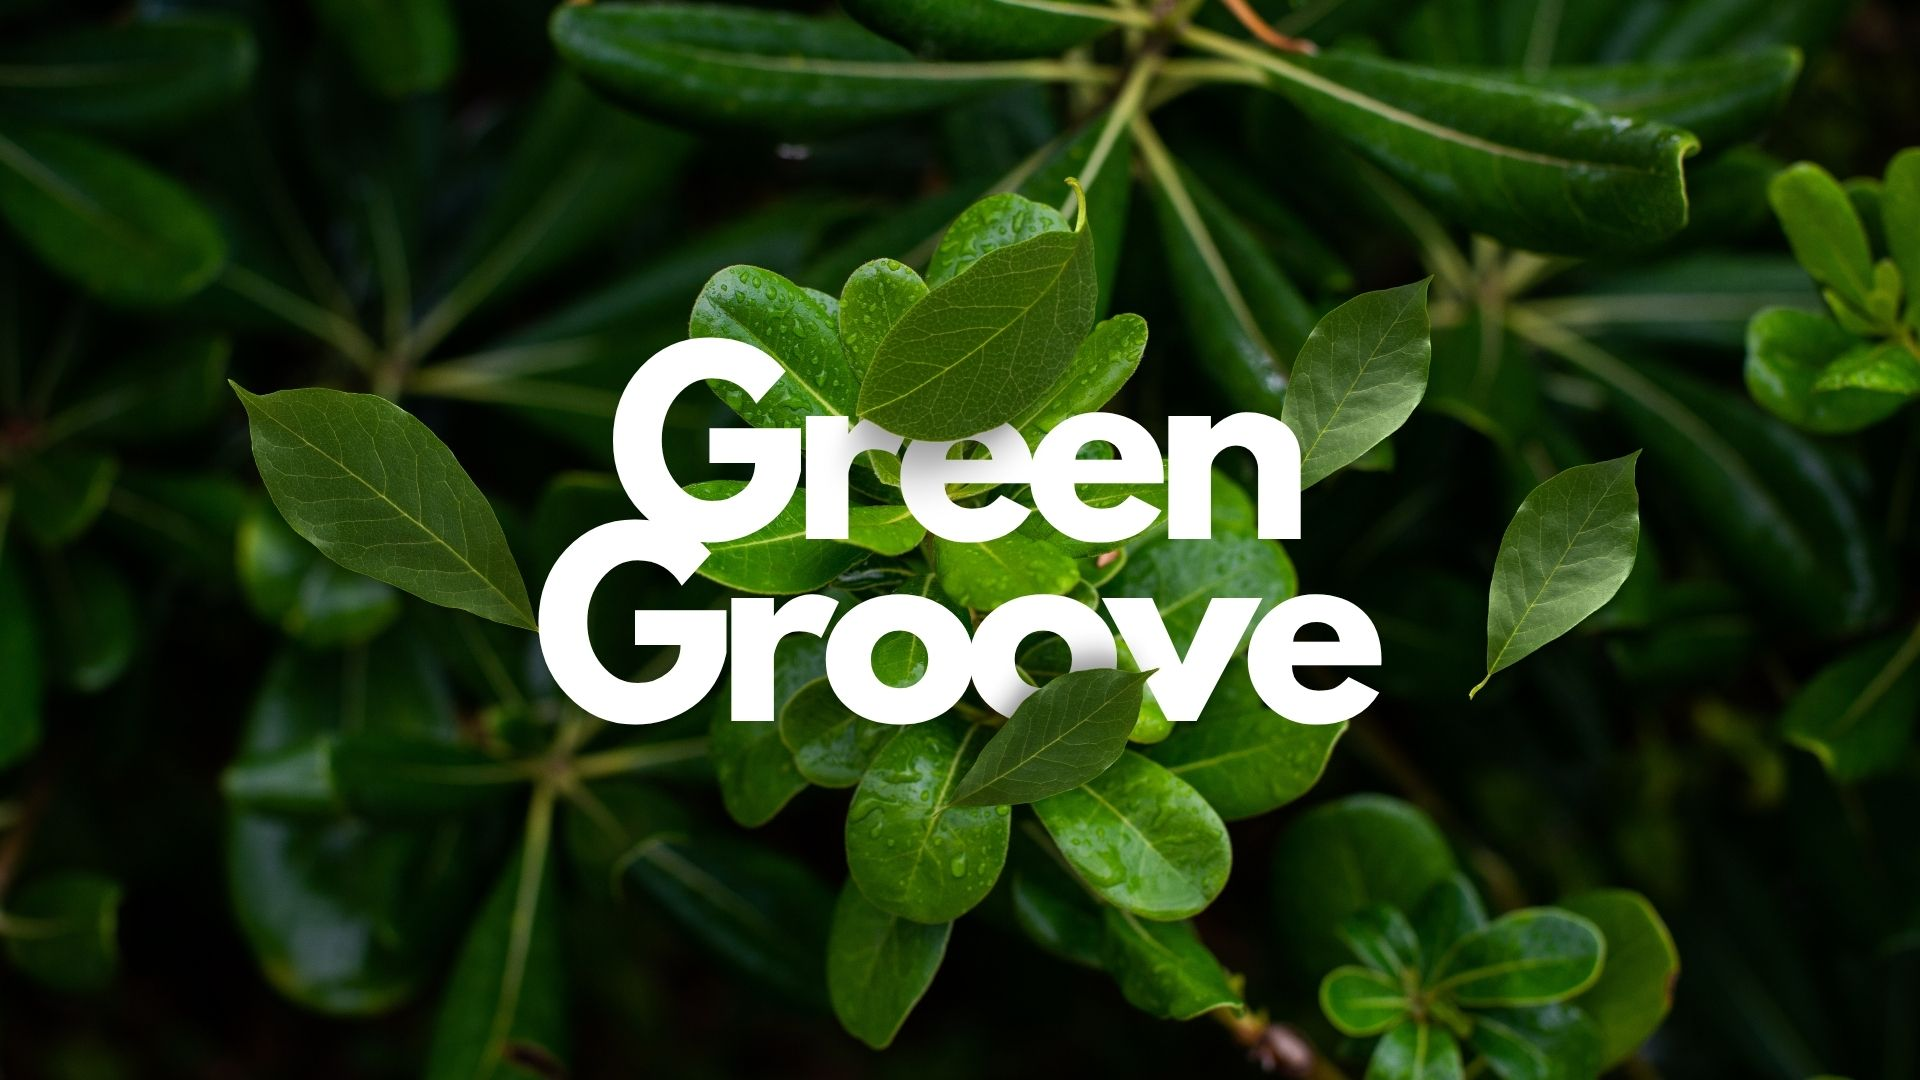
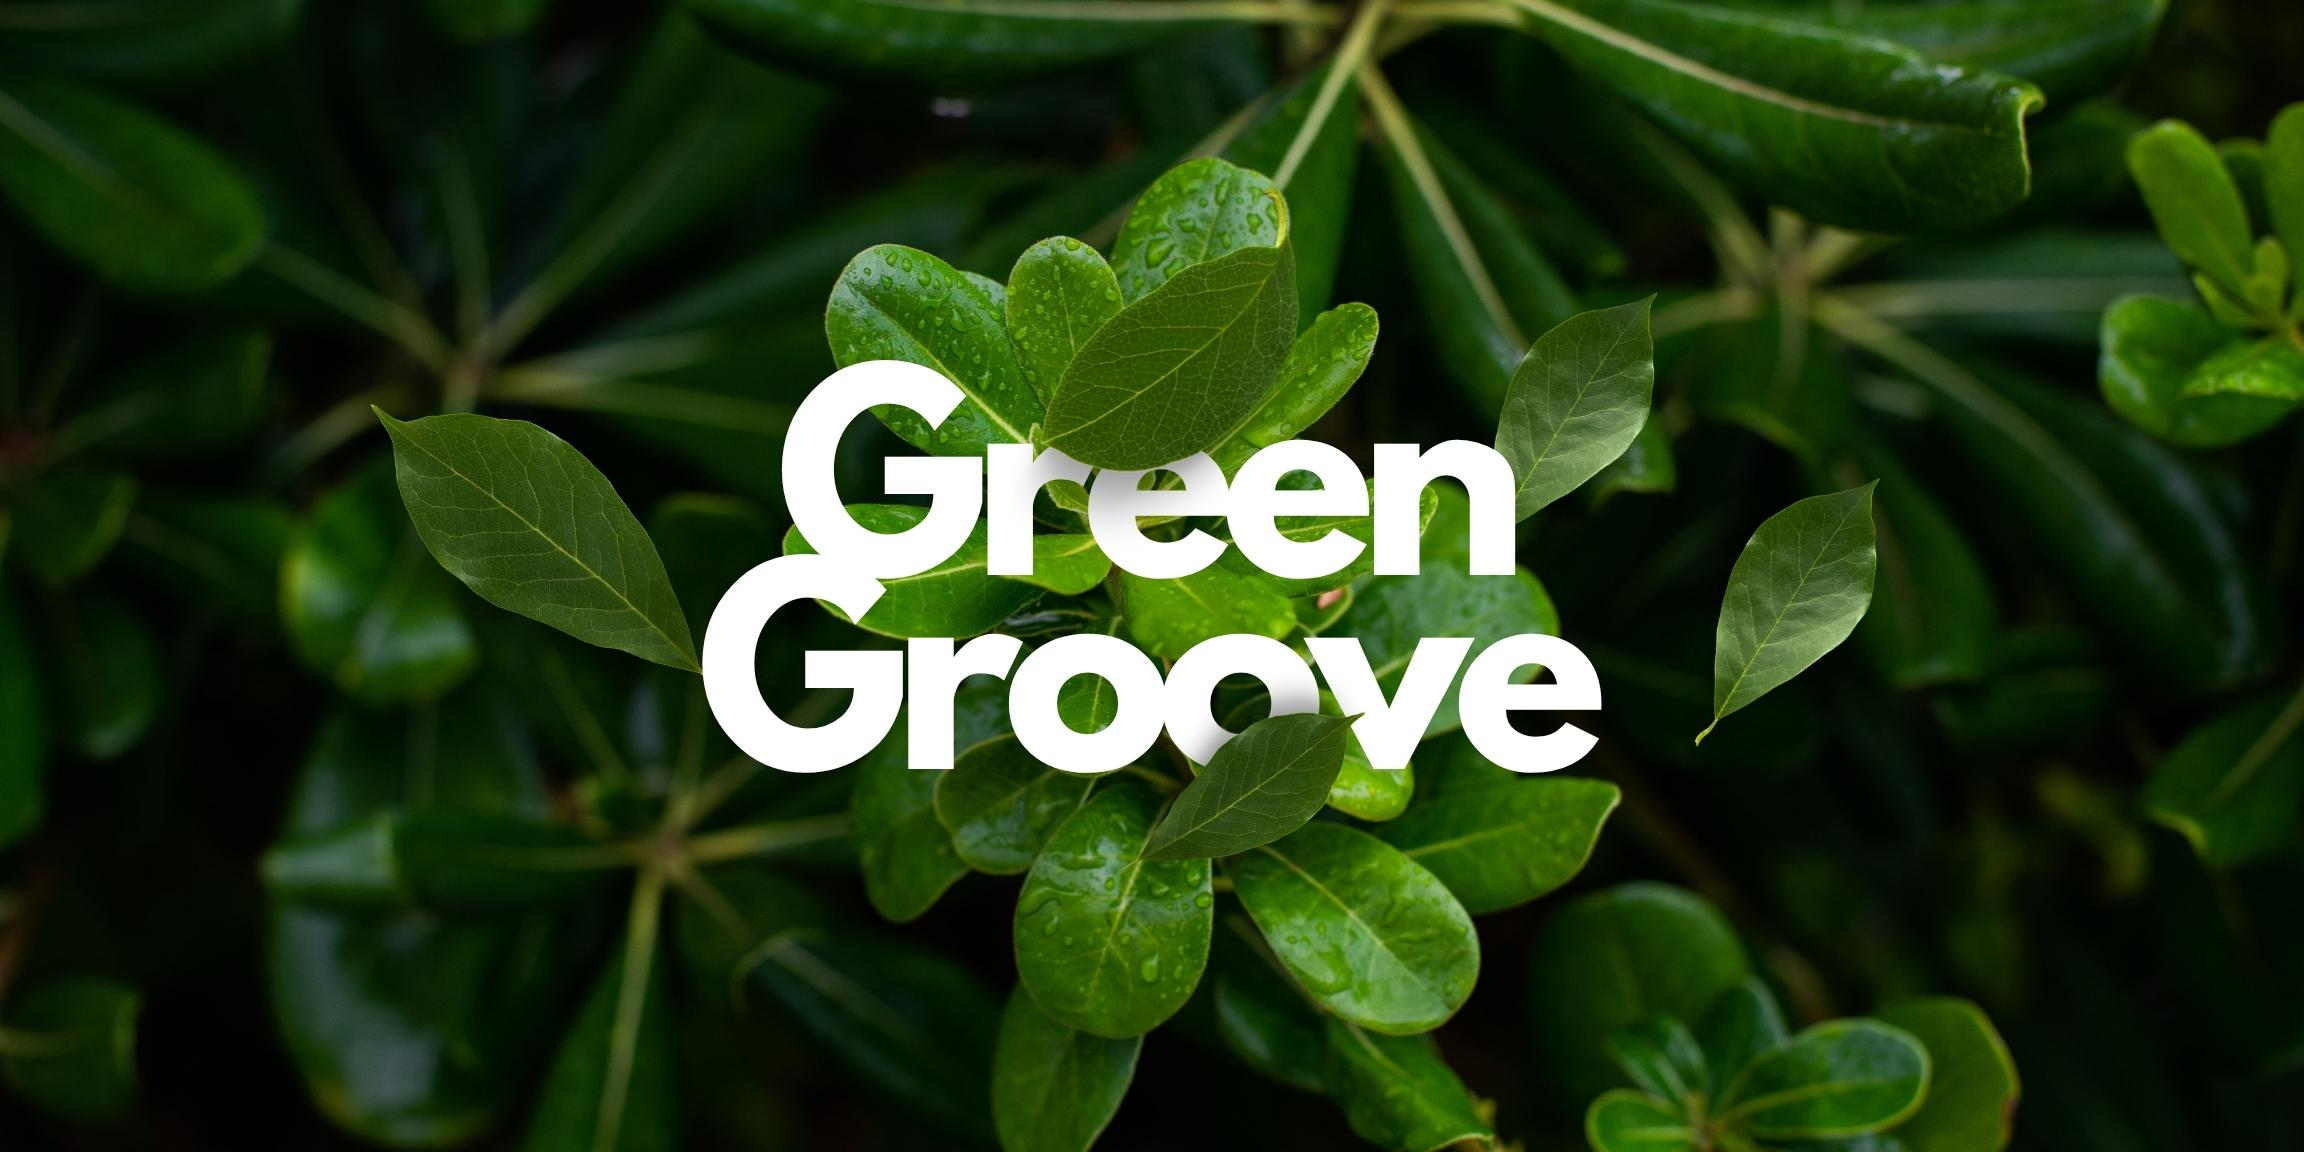
update

diff --git a/Final_Project/index.html b/Final_Project/index.html
@@ -24,11 +24,11 @@
     <div id="container">
 
         <header>
-            <img src="greenheaderr.png" alt="Green Groove Header">
+            <img src="greenheader.png" alt="Green Groove Header">
         </header>
         
         <p>TEST IMAGE</p>
-<img src="GreenGrooveHeader.png" alt="Test Header Image">
+<img src="greenheader.png" alt="Test Header Image">
 
         <nav>
             <ul>
